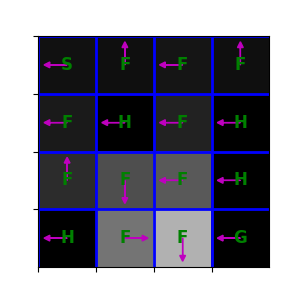
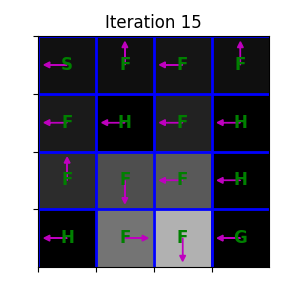
EX2

Changed region(s): [[0.33, 0.03, 0.69, 0.09]]

diff --git a/EX2/policy_iter.py b/EX2/policy_iter.py
@@ -58,26 +58,19 @@ print("")
 # Programing Question No. 2, part 1 - implement where required.
 
 def compute_vpi(pi, mdp, gamma):
-  
-    # use pi[state] to access the action that's prescribed by this policy
-
-    rpi=np.zeros(mdp.nS)
-    Ppi=np.zeros((mdp.nS,mdp.nS))
+# use pi[state] to access the action that's prescribed by this policy
+    V = np.zeros(mdp.nS)
+    A = np.eye(mdp.nS) 
+    b = np.zeros(mdp.nS)
     for state in range(mdp.nS):
-        action=pi[state]
-        next_state_details = mdp.P[state][action]
-        for prob ,next_state ,reward in next_state_details:
-            rpi[state]+=prob*reward
-            Ppi[state][next_state]+=prob
-    I = np.eye(mdp.nS)
-
-    b = (np.linalg.inv(I-gamma * Ppi)) @ rpi
-  
-
-    V = np.linalg.solve(I,b)
-
+        for prob, next_state, reward in mdp.P[state][pi[state]]:
+            A[state][next_state] -= gamma * prob
+            b[state] += prob * reward
+            
+    V = np.linalg.solve(A, b)
     return V
-  
+
+
 
  
 
@@ -127,5 +120,6 @@ def policy_iteration(mdp, gamma, nIt):
 
 Vs_PI, pis_PI = policy_iteration(mdp, gamma=0.95, nIt=20)
 plt.plot(Vs_PI)
+plt.savefig('policy_iter.png')
 plt.show()
 

diff --git a/EX2/value_iter.py b/EX2/value_iter.py
@@ -137,7 +137,9 @@ for iteration, (V, pi) in enumerate(zip(Vs_VI, pis_VI)):
                      color='g', size=12,  verticalalignment='center',
                      horizontalalignment='center', fontweight='bold')
     plt.grid(color='b', lw=2, ls='-')
+    plt.title(f'Iteration {iteration}') 
     plt.savefig(f"Iteration{iteration}.png")
+    
 
 
 nIt = 20
